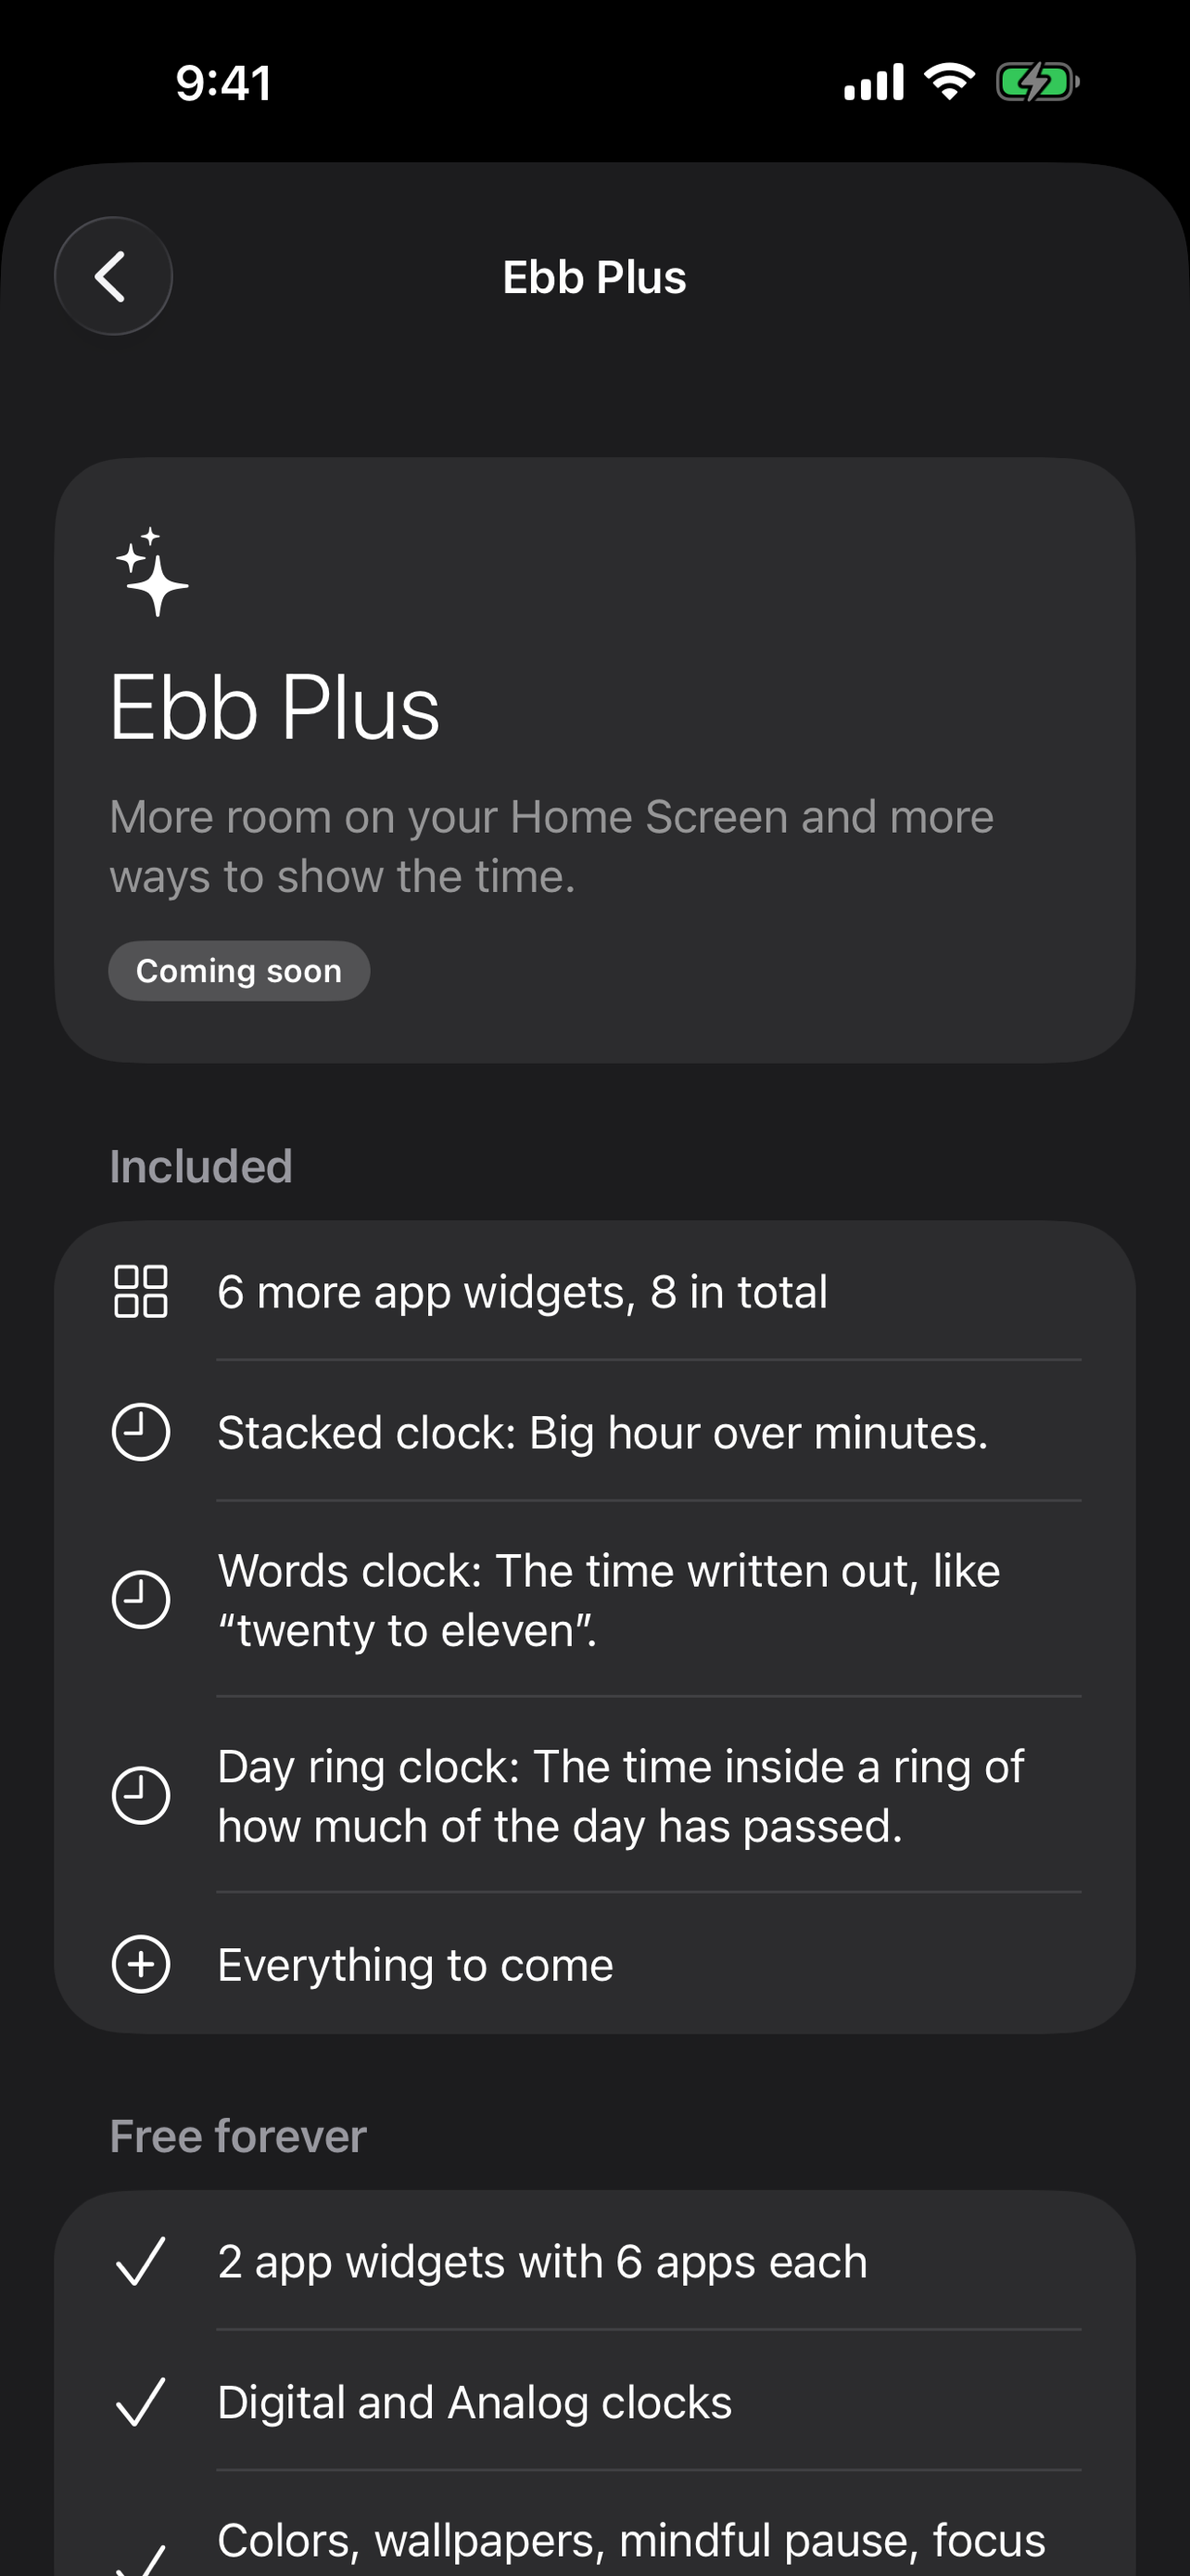
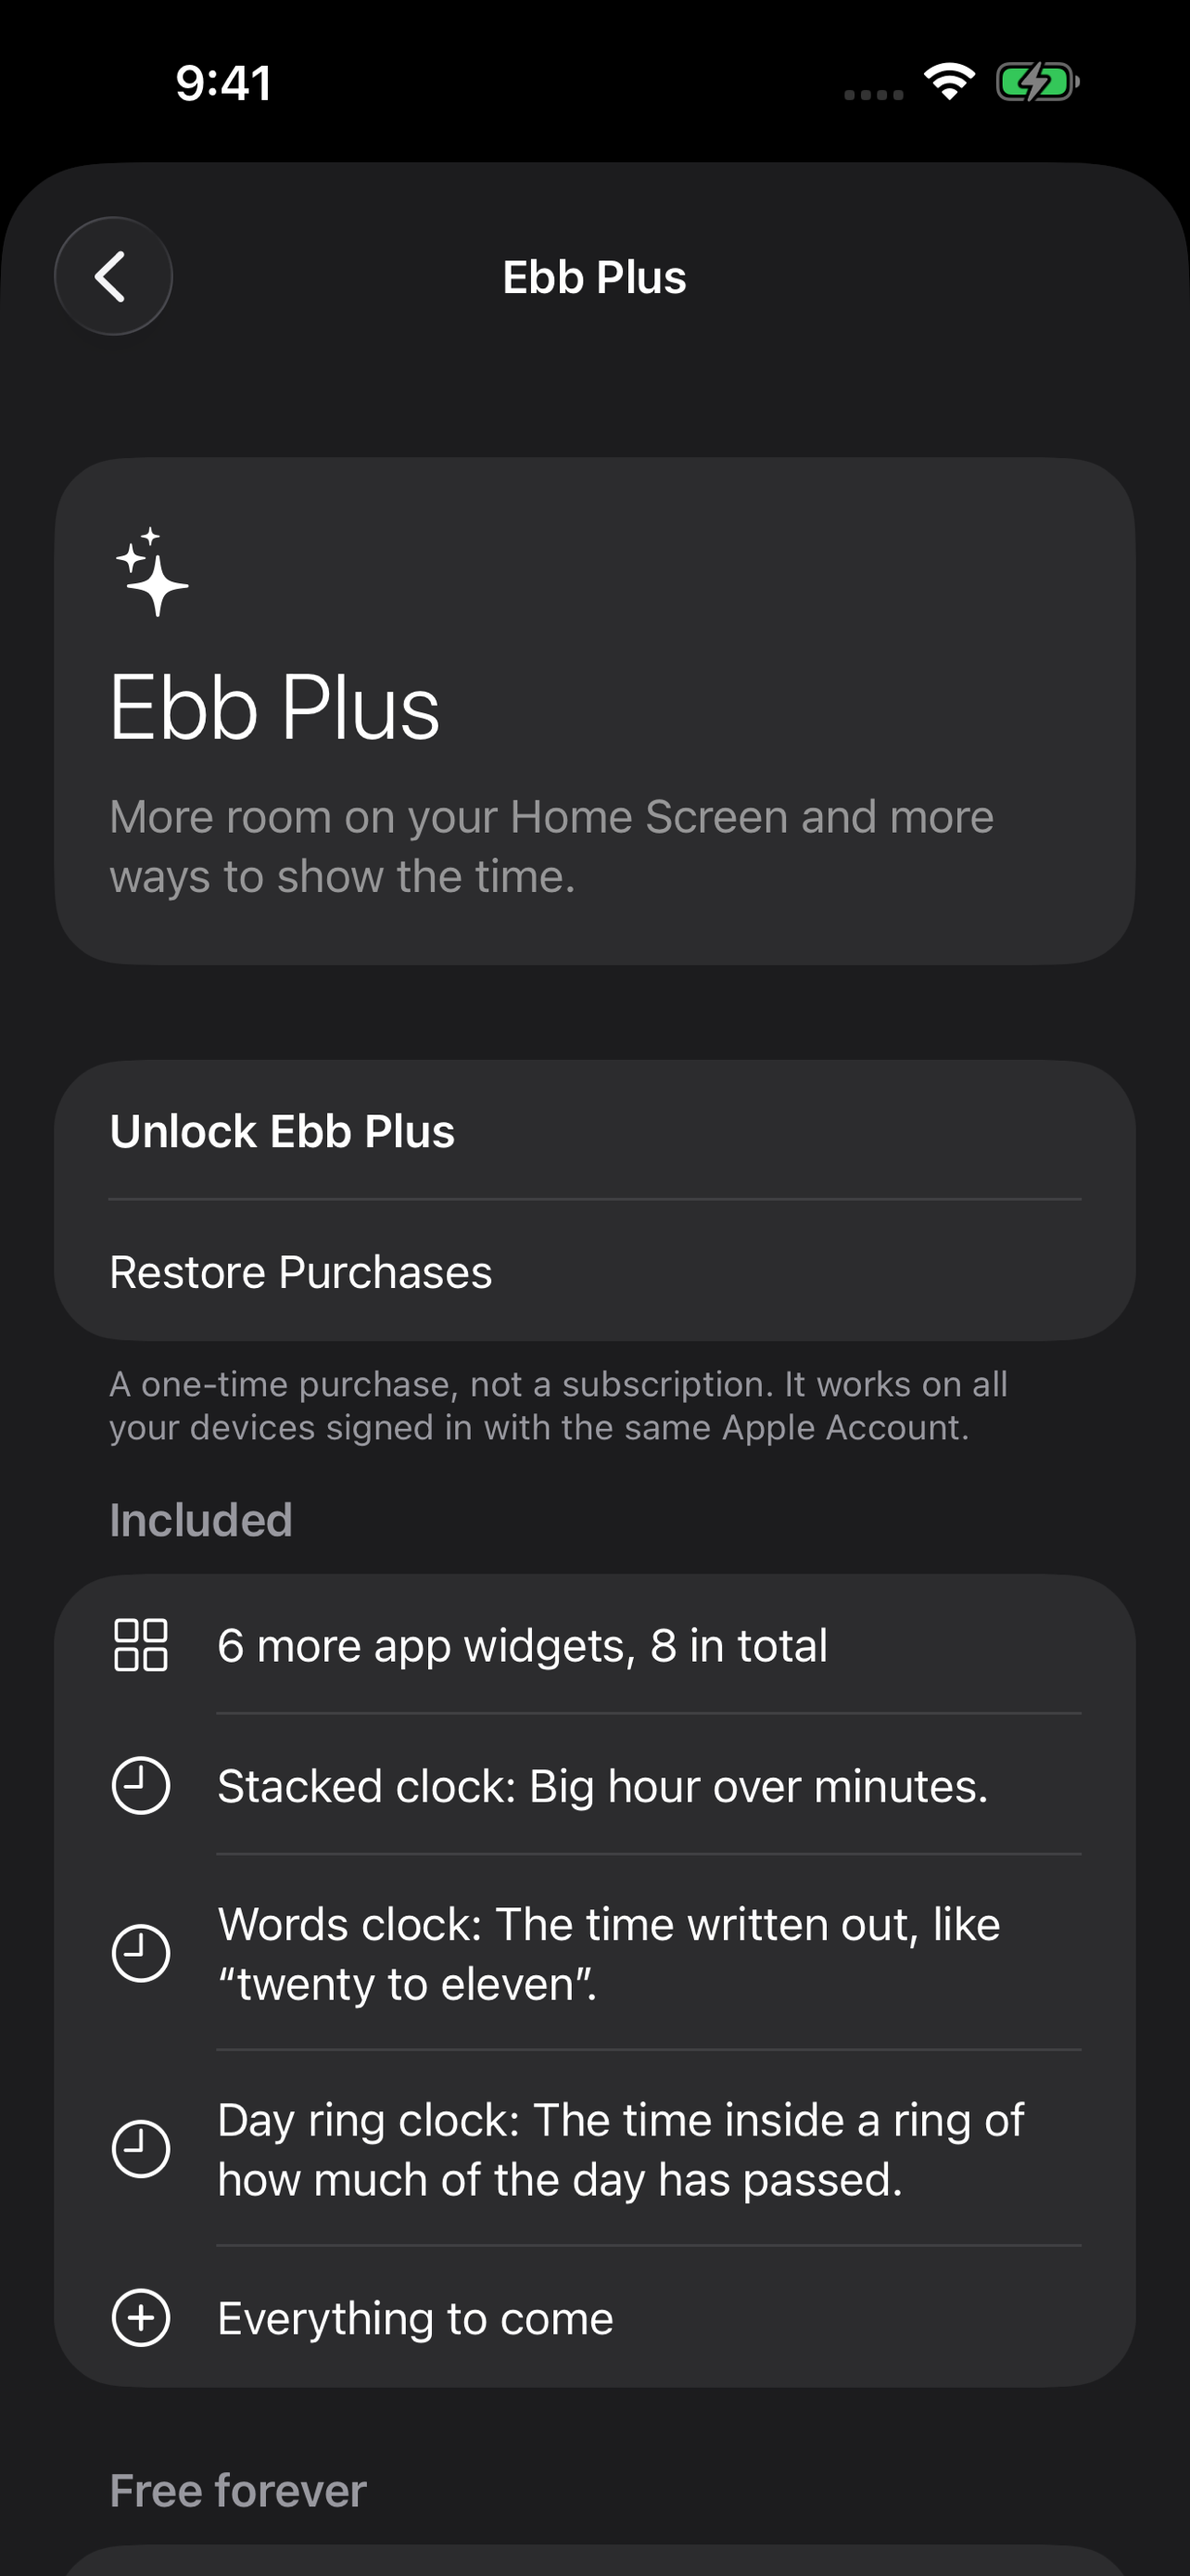
Add 13-inch iPad App Store screenshots
Also retakes the iPhone Ebb Plus screenshot with the new buy button, and adds a
development-only -EbbScreen launch option for opening screens directly.

diff --git a/Ebb/Views/SettingsView.swift b/Ebb/Views/SettingsView.swift
@@ -15,6 +15,12 @@ struct SettingsView: View {
     @Environment(\.dismiss) private var dismiss
 
     @State private var showWalkthrough = false
+    #if DEBUG
+    /// Screenshot launch option `-EbbScreen plus` opens Ebb Plus inside Settings.
+    @State private var showPlus = UserDefaults.standard.string(forKey: "EbbScreen") == "plus"
+    #else
+    @State private var showPlus = false
+    #endif
 
     var body: some View {
         NavigationStack {
@@ -82,6 +88,7 @@ struct SettingsView: View {
                 }
             }
             .navigationTitle("Settings")
+            .navigationDestination(isPresented: $showPlus) { EbbPlusView() }
             .navigationBarTitleDisplayMode(.inline)
             .toolbar {
                 ToolbarItem(placement: .topBarTrailing) {

diff --git a/Ebb/Views/DashboardView.swift b/Ebb/Views/DashboardView.swift
@@ -143,6 +143,18 @@ struct DashboardView: View {
         if router.sheet == nil, let sheet = HomeSheet(rawValue: savedSheet) {
             router.sheet = sheet
         }
+        #if DEBUG
+        // Screenshot launch option: `-EbbScreen widgets|apps|colors|help|settings|plus`.
+        if let screen = UserDefaults.standard.string(forKey: "EbbScreen") {
+            if let route = DashboardRoute(rawValue: screen) {
+                path = [route]
+            } else if screen == "plus" {
+                router.sheet = .settings
+            } else if let sheet = HomeSheet(rawValue: screen) {
+                router.sheet = sheet
+            }
+        }
+        #endif
     }
 
     private var todaySection: some View {

diff --git a/assets/README.md b/assets/README.md
@@ -5,10 +5,11 @@
 - `AppIcon-1024-Dark.png`, `AppIcon-1024-Tinted.png`: the iOS dark and tinted variants.
 
 ## Screenshots (`screenshots/`)
-Two sets with the same images:
+Three sets with the same images:
 
 - `6.5-inch/`: 1284 × 2778. Use this if App Store Connect asks for 1242 × 2688 or 1284 × 2778.
 - `6.9-inch/`: 1320 × 2868, for the 6.9" display slot.
+- `13-inch-ipad/`: 2064 × 2752, for the 13" iPad display slot (taken on an iPad Pro 13-inch simulator). App Store Connect scales these down for smaller iPads.
 
 App Store Connect scales these down for smaller iPhones. Upload in this order:
 
@@ -32,4 +33,4 @@ xcrun simctl io booted screenshot assets/screenshots/6.9-inch/02-home.png
 
 Make the 6.5" copies with `swift assets/resize.swift assets/screenshots/6.9-inch assets/screenshots/6.5-inch` (scales to 1284 wide and trims a few pixels top and bottom).
 
-`-hasOnboarded YES` skips onboarding; leave it off to capture the welcome screen.
+`-hasOnboarded YES` skips onboarding; leave it off to capture the welcome screen. In development builds, `-EbbScreen widgets|apps|colors|help|settings|plus` opens that screen directly, `-ebbPlusActive '<false/>'` shows Ebb Plus as not bought (with its buy button), and `-backgroundHex '#000000' -textHex '#F2F2F2'` forces the Midnight colors.
